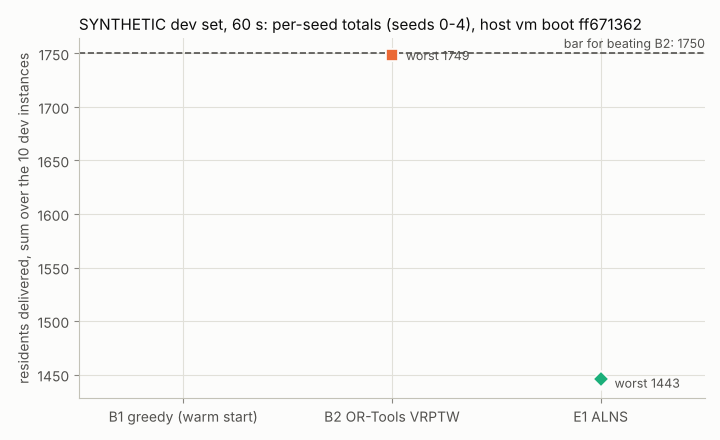
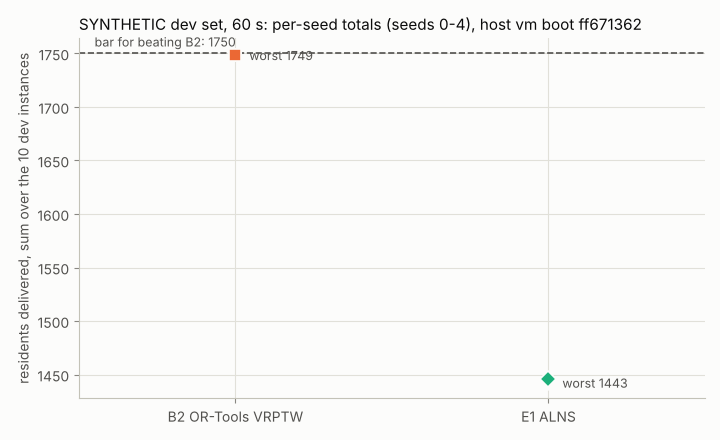
evacplan E1: results, decision KILL, next step; figures draw only same-host methods
README: final evaluation (SYNTHETIC dev, 60 s, seeds 0-4): median 1444
[1443-1446], worst 1443 against the bar 1750 (B2 1749 x 5 on this host),
verdict no; unresolved 0, model_no_route 0, over budget 0, no dose cut. E1
matches or beats every baseline on S and M (S-geo-t25-s102 +1, M-grid-t75-s107
+8 over B2) but cannot search on L: certifying one L plan costs 33-41 s, so it
returns the certified B1 warm start (335, 395). Decision KILL by the
pre-registered rule; next step and untuned fixes need Siyeong's approval.
e1_analysis.py figures now draw only methods with rows on this host.

Claude-Session: https://claude.ai/code/session_017vgyRQ18Wb67jh12VCHF54

diff --git a/evacplan/experiments/E1-alns/e1_analysis.py b/evacplan/experiments/E1-alns/e1_analysis.py
@@ -153,8 +153,9 @@ def figures(out, by, ids, residents, totals, cmp, host) -> None:
     ax = fig.add_subplot(1, 1, 1)
     style(ax)
     ys = list(range(len(ids)))[::-1]
-    off = {"b1_greedy": 0.22, "b2_vrptw": 0.0, METHOD: -0.22}
-    for m in COMPARE:
+    present = [m for m in COMPARE if any(by[(m, i)] for i in ids)]       # methods with rows on this host
+    off = dict(zip(present, (0.22, 0.0, -0.22) if len(present) == 3 else (0.14, -0.14)))
+    for m in present:
         for y, i in zip(ys, ids):
             vals = [float(x["delivered_checked"]) for x in by[(m, i)]]
             if not vals or not residents[i]:
@@ -179,7 +180,8 @@ def figures(out, by, ids, residents, totals, cmp, host) -> None:
     fig = Figure(figsize=(7.2, 4.4), dpi=100, facecolor=SURFACE)
     ax = fig.add_subplot(1, 1, 1)
     style(ax)
-    for x, m in enumerate(COMPARE):
+    present = [m for m in COMPARE if totals[m]]
+    for x, m in enumerate(present):
         t = sorted(totals[m].values())
         if t:
             ax.plot([x] * len(t), t, marker=MARKERS[m], markersize=8, color=COLORS[m], markeredgecolor=SURFACE,
@@ -188,11 +190,11 @@ def figures(out, by, ids, residents, totals, cmp, host) -> None:
                         color=INK_2, fontsize=9)
     if cmp.bar is not None:
         ax.axhline(cmp.bar, color=INK_2, linewidth=1.2, linestyle="--", zorder=2)
-        ax.annotate(f"bar for beating B2: {cmp.bar:g}", (len(COMPARE) - 0.5, cmp.bar), xytext=(0, 4),
-                    textcoords="offset points", ha="right", color=INK_2, fontsize=9)
-    ax.set_xticks(range(len(COMPARE)))
-    ax.set_xticklabels([LABELS[m] for m in COMPARE], color=INK_2)
-    ax.set_xlim(-0.5, len(COMPARE) - 0.5)
+        ax.annotate(f"bar for beating B2: {cmp.bar:g}", (-0.45, cmp.bar), xytext=(0, 5),
+                    textcoords="offset points", ha="left", color=INK_2, fontsize=9)
+    ax.set_xticks(range(len(present)))
+    ax.set_xticklabels([LABELS[m] for m in present], color=INK_2)
+    ax.set_xlim(-0.5, len(present) - 0.5)
     ax.set_ylabel("residents delivered, sum over the 10 dev instances", color=INK_2)
     ax.set_title(f"SYNTHETIC dev set, 60 s: per-seed totals (seeds 0-4), host {host_tag(host)}", color=INK,
                  fontsize=11, loc="left")

diff --git a/evacplan/experiments/E1-alns/README.md b/evacplan/experiments/E1-alns/README.md
@@ -101,4 +101,122 @@ seeds x 60 s plus the harness's oracle checks).
 
 ### Final evaluation (dev, 60 s, seeds 0-4)
 
-Queued behind the bench lock.
+Run once, as pre-registered: `evacplan run --method e1_alns --set dev --budget-s 60 --repeats 5`, one bench-lock hold
+(08:15-09:07 UTC), commit `483eb527` (clean), host `vm (Linux x86_64, Intel(R) Xeon(R) Processor @ 2.80GHz, 4 cpu,
+python 3.12.3, vm boot ff671362)`, the same container session as the B2 reruns. Rows: `evacplan/results/e1_alns.csv`;
+per run: [`results.csv`](results.csv) (from [`e1_analysis.py`](e1_analysis.py)).
+
+**Verdict (leaderboard): no (worst 1443 ≤ bar 1750).** Bar on this host = max(B2 best observed 1750 [recorded
+Phase 0 observation], best-of-baselines total 1749 [B2 rows; the noop/B0/B1/B3 reruns of this session were still
+queued]) = 1750.
+
+| SYNTHETIC dev, 60 s, this host | per-seed totals (seeds 0-4) | median [min–max] | worst |
+|---|---|---|---|
+| **E1 ALNS** | 1445, 1444, 1446, 1443, 1444 | **1444 [1443–1446]** | **1443** |
+| B2 OR-Tools VRPTW | 1749 × 5 | 1749 | 1749 |
+| B1 greedy (E1's warm start)¹ | 1353 | 1353 | 1353 |
+
+¹ B1 has no rows on this host yet (its 5-seed rerun was queued). B1 is deterministic; the numbers are the sizes of its
+plans built inside E1's runs on this host, which equal its Phase 0 rows (1353).
+
+| E1, sum over the 10 instances per seed | median [min–max] |
+|---|---|
+| delivered (checked in all K members) | 1444 [1443–1446] |
+| unresolved | 0 |
+| model_no_route | 0 |
+| not planned | 531 [529–532] |
+| delivered with slack ≥ 5 / 15 / 30 min | 1351 [1283–1352] / 1267 [1265–1267] / 992 [980–1030] (B2: 1523 [1482–1523] / 1463 / 1284) |
+| minimum slack | 1.9 s (L-grid-t50-s109, B1's plan; B2 16.7 s) |
+| runs over budget | 0 of 50 (mean runtime 55.8 s; S and M stop at 57.7 s = budget − reserve) |
+| residents lost to dose in the final plans: DOSE_ABOVE_BUDGET (model_no_route) / DOSE_UNRESOLVED (unresolved) | 0 / 0 |
+| residents in trips the oracle rejected during the search (summed over certifications) | 0 |
+| relaxed best − certified incumbent | 0 in 49 runs; 1 in M-grid-t75-s107 seed 3 (a 148-resident candidate whose certification did not fit in the time left) |
+
+| instance | residents | B1 | B2 median [min–max] | E1 median [min–max] | E1 − B2 | E1 iterations (median) | E1 oracle itinerary checks (median) |
+|---|---|---|---|---|---|---|---|
+| SYNTHETIC-S-grid-t25-s101 | 23 | 23 | 23 | 23 | +0 | 70,646 | 3 |
+| SYNTHETIC-S-geo-t25-s102 | 39 | 37 | 36 | 37 | +1 | 26,200 | 3 |
+| SYNTHETIC-S-grid-t75-s103 | 27 | 20 | 23 | 23 | +0 | 47,066 | 2 |
+| SYNTHETIC-S-geo-t75-s104 | 26 | 24 | 26 | 26 | +0 | 59,925 | 2 |
+| SYNTHETIC-M-grid-t25-s105 | 163 | 163 | 163 | 163 | +0 | 2,280 | 15 |
+| SYNTHETIC-M-geo-t25-s106 | 155 | 155 | 155 | 155 | +0 | 2,925 | 16 |
+| SYNTHETIC-M-grid-t75-s107 | 168 | 100 | 140 | 148 [147–150] | +8 | 1,079 | 11 |
+| SYNTHETIC-M-geo-t75-s108 | 149 | 101 | 139 | 139 | +0 | 733 | 20 |
+| SYNTHETIC-L-grid-t50-s109 | 646 | 335 | 516 | 335 | −181 | 0 | 10 |
+| SYNTHETIC-L-geo-t50-s110 | 579 | 395 | 528 | 395 | −133 | 0 | 10 |
+
+By size: S 109 vs B2 108 (the best-of-baselines S total is 109); M 605 vs B2 597 (best-of-baselines 597); L 730 vs B2
+1044.
+
+![SYNTHETIC: E1 vs B2 per instance](figures/e1_by_instance.png)
+
+![SYNTHETIC: per-seed totals and the bar](figures/e1_seed_totals.png)
+
+**What happened.**
+
+* **S and M: E1 matches or beats every baseline on every instance, every trip certified.** On S it reaches B2/B3's
+  values or better (S-geo-t25-s102: 37 in every seed vs B2 36); on M it delivers every resident of the two instances
+  where a baseline did (163, 155), equals B2 on M-geo-t75-s108 (139) and beats it by 8 on M-grid-t75-s107 (147-150;
+  B2 140, B1 100). Thousands of iterations on S and M; the oracle never
+  rejected a trip in any certification (no dose cut anywhere), so the relaxed model was exact on these instances.
+* **L: no search at all.** On both L instances the B1 warm start took 8.0-10.7 s, the oracle calibration 2.6-3.8 s, and
+  the oracle cost 21.6-25.5 ms per leg on plans of 1,658-1,772 legs, i.e. one full-plan certification ≈ 36-45 s. E1
+  reserves 1.5× the estimate (`oracle_safety`, fixed a priori) before it starts an iteration, so it never started one:
+  it certified the warm start (33-41 s) and returned it, delivering exactly B1's 335 and 395. This was visible
+  before the final run on an L instance outside the split (0 iterations there too); the parameter was kept as
+  pre-registered (see Next step). Lowering it to 1.0 would have left about 10 s for perhaps a handful of
+  iterations on L, nowhere near the 314-resident gap to B2.
+* **The oracle is the bottleneck, also on M.** The certifications took 15-37 s of oracle time per M run (of 57.7 s),
+  and 18 certifications on M were skipped because they would not have fitted in the time left (the incumbent stayed).
+  "Search cheaply, check expensively" works only when the expensive check fits the budget; at 60 s it does not on L.
+* **Dose.** In no run did the oracle reject a trip E1 proposed (DOSE_* = 0 in the final plans and in the search).
+  The H0 caveat (SYNTHETIC dose_lower much hotter than the Korean packets) therefore did not touch these results;
+  nothing in E1 depends on a dose value.
+
+## Decision: KILL
+
+By the pre-registered rule: the verdict is not "beats B2" and the worst of 5 (1443) does not exceed B2's median total
+on this host (1749), so ITERATE does not apply. The negative result is specific: the ALNS itself is at least as good as
+the best baseline on S and M at equal time, but certifying incumbents inside a 60 s budget is unaffordable on L with
+the current oracle (~22 ms per leg, ~40 s per L plan), so E1 falls back to B1 there.
+
+## Next step
+
+Report to Siyeong; no further E1 runs in this batch. A follow-up (E1b) would need his approval, because each candidate
+fix touches the comparison rule, the oracle interface or a pre-registered parameter:
+
+1. **Cheaper certification on L** (untuned, structural): an oracle entry point that checks an itinerary's suffix from a
+   cached prefix state (cumulative dose per member and the state so far) would make lazy certification cost only the
+   changed legs. That is an `evacplan.oracle` API addition: the oracle stays the only code that declares states.
+2. **Budget accounting for certification.** B2's plan is certified by the harness outside its budget, while E1 pays for
+   certifying in-budget. Either both count it or neither; Siyeong decides the rule.
+3. **`oracle_safety` 1.5 → 1.0** with the existing per-check guard (computational, not hazard-related; about 10 s of
+   search on L).
+
+## What tuning would be tried if Siyeong allows it
+
+None of this was done in this batch (no parameter was changed after seeing a dev result):
+
+1. **Search effort per instance size.** At 60 s M gets 600-3,300 iterations and L none, so Ropke & Pisinger's
+   100-iteration segments update the operator weights only a few times on M. Tuning would set the segment length,
+   the destroy range (10-40 % of the requests) and the cooling end point per size class on dev.
+2. **Operator portfolio.** Drop or reweight operators from the learned weights on dev (initial weights, scores).
+3. **Dose-aware insertion.** The oracle's dose verdicts could seed a cost on long stays within ~375 m of burning
+   cells (H0's band where the budget binds). That is tuning to the SYNTHETIC hazards ("much hotter" than the
+   Korean packets by H0's rule) and needs Siyeong's decision first.
+4. **Certification cadence and safety factor** (computational): certify more or less often, and a smaller safety
+   factor on the oracle's time estimate on large instances.
+
+## Changes after seeing dev results
+
+* Method (`e1_alns.py`) and parameters (`config.yaml`): none. The last method commit before the dev smoke is
+  `e642c1bb`; the smoke ran at `c318d524` and the final run at `483eb527` (the commits in between touch only the
+  analysis script and this README, plus the merge of the orchestrator's same-host B2 rows).
+* `e1_analysis.py`, after the final run: the figures draw only methods that have rows on this host (B1's rerun was still
+  queued, which left an empty B1 column) and the bar's label moved left. No number changed.
+
+## Budget used
+
+* Bench time: about 57 min (tests, profiling and the dev smoke 07:10-07:16 UTC; final evaluation 08:15-09:07 UTC,
+  one hold). Waiting for the shared lock: about 1 h 40 min before the first hold and 1 h before the final one.
+* Work: about 4 h 15 min (05:00-09:15 UTC).
